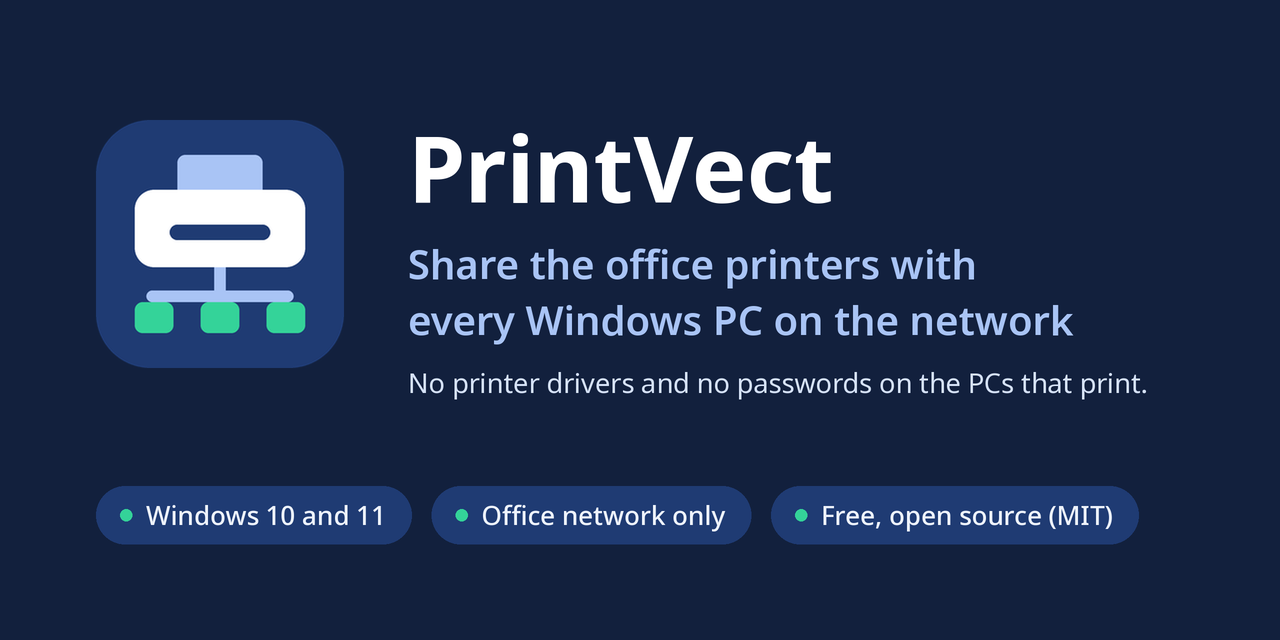
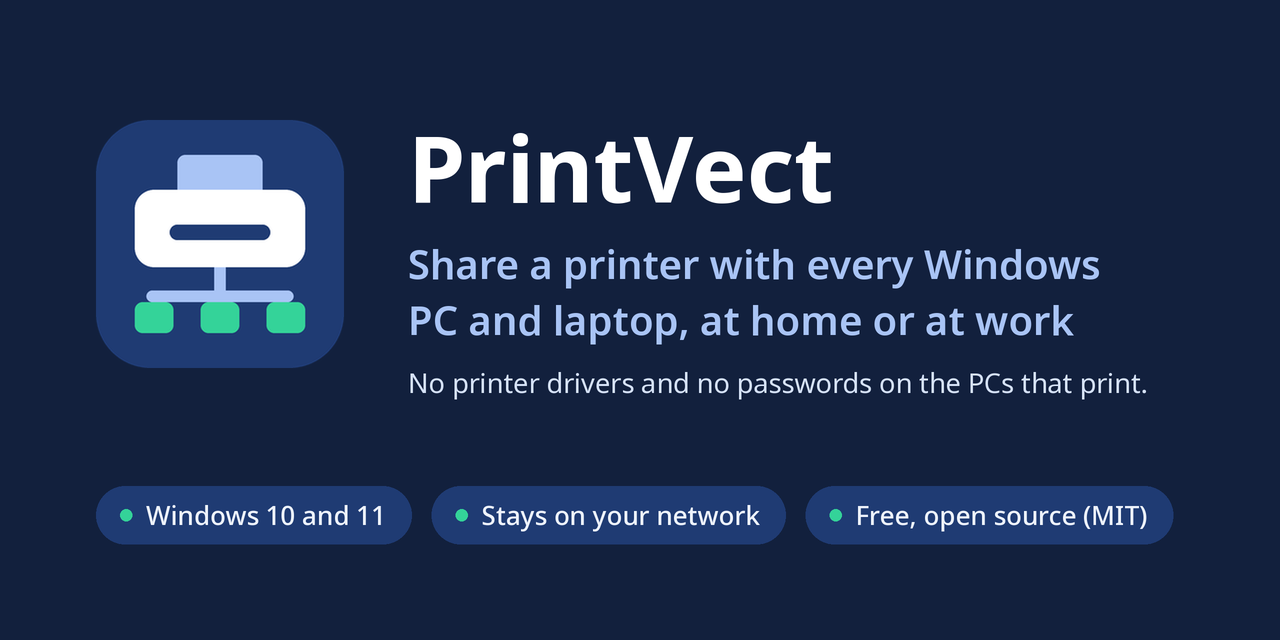
Front page: for homes as well as offices
PrintVect works the same with one printer and a few laptops at home, so the README
pitch, the security and contributing pages, the privacy section, the idea form and
the preview picture say "at home or in the office" and "your network". The app's own
names (Office printers, office PIN) are kept where the README describes the window.

Claude-Session: https://claude.ai/code/session_01JFV1W7wPfiMU9itafQutsk

Changed region(s): [[0.375, 0.75, 0.9375, 0.875], [0.3125, 0.4688, 0.8438, 0.5312], [0.4062, 0.375, 0.875, 0.4375]]

diff --git a/tools/make_social_preview.py b/tools/make_social_preview.py
@@ -25,9 +25,9 @@ CHIP = "#1F3B73"
 CHIP_TEXT = "#EEF3FC"
 GREEN = "#34D399"
 
-TAG_LINES = ["Share the office printers with", "every Windows PC on the network"]
+TAG_LINES = ["Share a printer with every Windows", "PC and laptop, at home or at work"]
 BODY_LINE = "No printer drivers and no passwords on the PCs that print."
-CHIPS = ["Windows 10 and 11", "Office network only", "Free, open source (MIT)"]
+CHIPS = ["Windows 10 and 11", "Stays on your network", "Free, open source (MIT)"]
 
 
 def font(weight, size):

diff --git a/README.md b/README.md
@@ -2,7 +2,7 @@
 
 <h1 align="center">PrintVect</h1>
 
-<p align="center"><b>Share the office printers with every Windows PC on the network.<br>
+<p align="center"><b>Share a printer with every Windows PC and laptop on your network, at home or in the office.<br>
 No printer drivers and no Windows passwords on the PCs that print.</b></p>
 
 <p align="center">
@@ -19,13 +19,14 @@ No printer drivers and no Windows passwords on the PCs that print.</b></p>
 <a href="#troubleshooting">Troubleshooting</a>
 </p>
 
-PrintVect is a small, free tray app for small offices. The PC that has a printer shares it in a few clicks; every
-other PC adds it with one click and prints to it from any program, like a printer of its own. No print server, no
-cloud, no accounts: printing stays on the office network.
+PrintVect is a small, free tray app for homes and small offices: one printer and a few laptops at home, or several
+printers and many PCs at work. The PC that has a printer shares it in a few clicks; every other PC or laptop adds it
+with one click and prints to it from any program, like a printer of its own. No print server, no cloud, no accounts:
+printing stays on your own network.
 
 ## Why
 
-Windows' own printer sharing is hard work in a small office without an IT department:
+Windows' own printer sharing is hard work at home or in a small office without an IT department:
 
 - Since the PrintNightmare security fixes of 2021, Windows asks for an administrator password when a PC connects to
   a shared printer and has to install its driver.
@@ -48,7 +49,7 @@ flowchart LR
         direction TB
         pv["PrintVect in the tray"] --> drv["The printer's own driver,<br/>already working on this PC"] --> prn["Printer<br/>USB or network"]
     end
-    client -- "the document, over the office network" --> host
+    client -- "the document, over your home or office network" --> host
 ```
 
 1. On the PC that has the printer (the **host**), open PrintVect, **Share my printers**, **Turn on sharing**, and
@@ -60,13 +61,13 @@ flowchart LR
 
 ## Features
 
-- **Finds the office's printers by itself**, on every network card of the PC; a PC name or IP address can be typed
-  in too.
+- **Finds the shared printers by itself**, over Wi-Fi or cable, on every network card of the PC; a PC name or IP
+  address can be typed in too.
 - **A normal Windows printer** on each client, so every program can print to it.
 - **Jobs page** on both sides: sent, printed, waiting or failed, with **Retry** and **Cancel**. A job whose host is
   switched off waits and goes out with **Retry**; a job is never printed twice.
 - **Asks how many copies** before a job leaves the PC (can be switched off).
-- **Office PIN** (optional): only PCs with the same PIN can print to the shared printers.
+- **PIN** (optional, the "office PIN" in Settings): only PCs with the same PIN can print to the shared printers.
 - **Pause / Resume** a shared printer; see which PCs print on this one.
 - **Phone hotspot friendly**: warns when Windows treats the network as public and fixes it with one click; a job
   finds the host's new address by itself.
@@ -77,9 +78,9 @@ flowchart LR
 
 ## Security and privacy
 
-- Finding printers (UDP 9150) and print jobs (TCP 9151) stay on the office network. The setup program opens those
+- Finding printers (UDP 9150) and print jobs (TCP 9151) stay on your local network. The setup program opens those
   ports in Windows Firewall for PrintVect only, on private and domain networks only, never on public ones.
-- Without an office PIN, any PC on the office network can print to the shared printers; set the same PIN on every
+- Without an office PIN, any PC on the same network can print to the shared printers; set the same PIN on every
   PC to limit that (Settings, Security). Print jobs are not encrypted on the network.
 - PrintVect runs as a normal user. Only its small helper, `PrintVect.Elevate.exe`, asks for administrator rights,
   for the few tasks that need them: adding or removing a printer, starting with Windows, making a network private.
@@ -91,7 +92,7 @@ flowchart LR
 ## Download
 
 Download the latest **PrintVect-Setup-<version>.exe** from this repository's
-[Releases](https://github.com/rahulranjan-dev-py/PrintVect/releases/latest) and run it on each office PC (it asks
+[Releases](https://github.com/rahulranjan-dev-py/PrintVect/releases/latest) and run it on each PC or laptop (it asks
 for administrator rights once). PCs that already run PrintVect find new versions by themselves (Settings, Updates).
 What changed in each version: [CHANGELOG.md](CHANGELOG.md).
 
@@ -101,7 +102,7 @@ Requirements:
 - .NET Framework 4.8. Windows 10 (May 2019 update or later) and Windows 11 already have it. Windows 7 and 8.1 need
   the offline installer `ndp48-x86-x64-allos-enu.exe`; Windows 7 also needs SP1 plus updates KB4474419 and
   KB4490628 first.
-- All PCs on the same office network.
+- All PCs on the same network (the same Wi-Fi or router).
 
 **Not signed yet** (see [CODE_SIGNING.md](CODE_SIGNING.md)). Until the first signed release:
 
@@ -254,7 +255,7 @@ tests\PrintVect.Tests\bin\Release\net48\PrintVect.Tests.exe
   For a problem, add the report from Settings, Diagnostics, **Copy report** (read it first: it holds the PC's name,
   its network addresses and the printer names).
 - Contributions are welcome: see [CONTRIBUTING.md](CONTRIBUTING.md).
-- If PrintVect saves your office some trouble, please give it a star on GitHub: it helps other small offices find it.
+- If PrintVect saves your office some trouble, please give it a star on GitHub: it helps other homes and offices find it.
 
 ## For developers
 

diff --git a/SECURITY.md b/SECURITY.md
@@ -9,15 +9,15 @@ read; the answer comes there too.
 ## Supported versions
 
 Only the [latest release](https://github.com/rahulranjan-dev-py/PrintVect/releases/latest) gets fixes. Every installed
-PrintVect offers the newest version by itself (Settings, Updates), so a fix reaches the office PCs with one click.
+PrintVect offers the newest version by itself (Settings, Updates), so a fix reaches every PC with one click.
 
 ## How PrintVect is meant to be used
 
 These are known limits of the design, not vulnerabilities:
 
-- PrintVect is meant for a trusted office network. Its ports (UDP 9150, TCP 9151) are opened in Windows Firewall on
+- PrintVect is meant for a trusted home or office network. Its ports (UDP 9150, TCP 9151) are opened in Windows Firewall on
   private and domain networks only.
-- Without an office PIN, any PC on the office network can print to the shared printers. With a PIN, every job must carry
+- Without an office PIN, any PC on the same network can print to the shared printers. With a PIN, every job must carry
   the PIN's SHA-256 hash. Print jobs are not encrypted on the network.
 - The setup program and the program files are not code-signed yet (see [CODE_SIGNING.md](CODE_SIGNING.md)); the
   updater checks each downloaded setup program's size and SHA-256 against the release before running it.

diff --git a/CONTRIBUTING.md b/CONTRIBUTING.md
@@ -5,7 +5,7 @@ not code:
 
 - **Problems:** open an [issue](https://github.com/rahulranjan-dev-py/PrintVect/issues/new/choose) with the PrintVect
   version, the Windows version and the Diagnostics report (Settings, Diagnostics, Copy report).
-- **Ideas:** open an issue that describes the situation in your office and what gets in the way.
+- **Ideas:** open an issue that describes your situation, at home or at work, and what gets in the way.
 - **Words:** if a message in PrintVect is hard to understand, say so in an issue and suggest better words.
 
 ## Code
@@ -15,7 +15,7 @@ not code:
 - No new NuGet packages in the shipped program (Newtonsoft.Json is the only one); please ask in an issue first.
 - Every user-visible text lives in `src/PrintVect.App/Strings.resx`; after editing it without Visual Studio, run
   `python3 tools/generate_strings.py`.
-- Printing and finding printers stay on the office network. The update check is the only internet connection, and
+- Printing and finding printers stay on the local network. The update check is the only internet connection, and
   that stays so.
 - Every error is logged with its job id and shown as a plain message that says what to do next.
 - `CLAUDE.md` lists the project's rules in full; `docs/protocol.md` describes the network protocol.

diff --git a/CODE_SIGNING.md b/CODE_SIGNING.md
@@ -30,10 +30,10 @@ These rules will apply from the first signed release:
 PrintVect collects no personal data and sends no documents, usage statistics or crash reports to its authors or to
 anyone else.
 
-- **Inside the office network.** PCs running PrintVect find each other (UDP port 9150) and send print jobs (TCP port
+- **Inside the local network.** PCs running PrintVect find each other (UDP port 9150) and send print jobs (TCP port
   9151) to the PC that has the printer. Every 5 minutes a PC that prints on another PC's printers tells that PC its
   name, its Windows version, its PrintVect version and the printers it uses, so that PC can show "PCs that print here".
-  None of this leaves the office network.
+  None of this leaves the local network.
 - **The internet.** Once a day, and when someone presses *Check now*, PrintVect asks GitHub (`api.github.com`) for the
   latest release of this repository; when someone presses *Update now* it downloads the new setup program from GitHub.
   GitHub then sees the PC's public IP address and the program name and version (`PrintVect/<version>`); see
